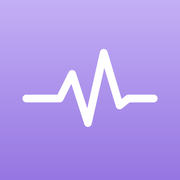
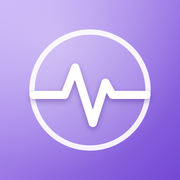
Nuevo icono e icono apple-touch incrustado en la página
Claude-Session: https://claude.ai/code/session_017JuC6pXoAWgsBSy8ukGSee

diff --git a/index.html b/index.html
@@ -8,7 +8,7 @@
 <meta name="theme-color" content="#000000" media="(prefers-color-scheme: dark)">
 <link rel="manifest" href="manifest.webmanifest">
 <link rel="icon" type="image/png" href="icon-192.png">
-<link rel="apple-touch-icon" href="icon-180.png">
[1 lines of base64/hex data omitted]
 <meta name="apple-mobile-web-app-capable" content="yes">
 <meta name="mobile-web-app-capable" content="yes">
 <meta name="apple-mobile-web-app-title" content="Fisiopatología">

diff --git a/sw.js b/sw.js
@@ -1,5 +1,5 @@
-const C="fisiopat-v1";
-const SHELL=["./","index.html","style.css","app.js","config.js","manifest.webmanifest","icon-192.png"];
+const C="fisiopat-v2";
+const SHELL=["./","index.html","style.css","app.js","config.js","manifest.webmanifest","icon-192.png","apple-touch-icon.png"];
 self.addEventListener("install",e=>{e.waitUntil(caches.open(C).then(c=>c.addAll(SHELL)));self.skipWaiting()});
 self.addEventListener("activate",e=>{e.waitUntil(caches.keys().then(k=>Promise.all(k.filter(x=>x!==C).map(x=>caches.delete(x)))));self.clients.claim()});
 self.addEventListener("fetch",e=>{
